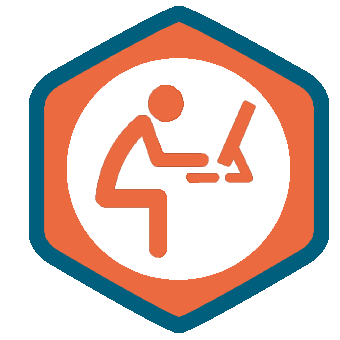
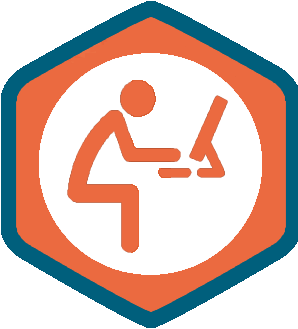
changing images dimensions, adding products pages

diff --git a/site/src/app/components/products/products.component.html b/site/src/app/components/products/products.component.html
@@ -1,0 +1,79 @@
+<app-menu></app-menu>
+<div style="background-color: #d6dae2;padding-top: 1px; height: 100vh; background-repeat: repeat;">
+    <div class="container  col-8"  style="background-color: #d6dae2;">
+        <div class="col-12" style="  height: inherit;">
+            <div class="col-12" style="border-width: 0px;
+            background-color: transparent;">
+                <div class="text-center col-12 py-3 my-3">
+                    <h1> Our Products</h1>
+                </div>
+                <div class="col-12"
+                    style="font-size: initial; font-family: Arial, Helvetica, sans-serif;">
+                    <div class=" row pb-2 mb-2">
+                        <div class="col-lg-6 col-sm-12">
+                            <div class="col-12 row mb-1 pb-1">
+                                <div class="col-4 pr-0 mr-0">
+                                    <img src="assets/img/import_data_icon.png" style="width: 50%;">
+                                </div>
+                                <div class="col-8 pl-0 ml-0" style="margin-top: 6%;">
+                                    Create your Tickdatabase
+                                </div>
+                            </div>
+                            <div class="col-12 text-justify ">
+                                Import your market data by <a href="https://hod.quanthouse.com" target="_blank"> Historical On demand</a>, native FeedOs or by CSV template.<br>
+                                Import you #TimeSeries, all types of data has been supported (Top of the
+                                book, trades, order books, custom, etc ...).
+                            </div>
+                        </div>
+                        <div class="col-lg-6 col-sm-12">
+                            <div class="col-12 row mb-1 pb-1">
+                                <div class="col-4 pr-0 mr-0">
+                                    <img src="assets/img/preparedata_icon.png" style="width: 50%;">
+                                </div>
+                                <div class="col-8 pl-0 ml-0" style="margin-top: 6%;">
+                                    Sanitaze and prepare your data set
+                                </div>
+                            </div>
+                            <div class="col-12 text-justify">
+                                Sanitaze your data are imported, prepare your dataset tick-by-tick, create new time
+                                series, make your minute(s) bars and make your daily (OHLC). The data set in your hands.
+                            </div>
+                        </div>
+                    </div>
+                    <div class="row">
+                        <div class="col-lg-6 col-sm-12">
+                            <div class="col-12 row mb-1 pb-1">
+                                <div class="col-4 pr-0 mr-0">
+                                    <img src="assets/img/designmodels_icone.png" style="width: 50%;">
+                                </div>
+                                <div class="col-8 pl-0 ml-0" style="margin-top: 6%;">
+                                    Design and write your models
+                                </div>
+                            </div>
+                            <div class="col-12 text-justify">
+                                Build your quantitative strategies, create and use your indicators, imagine your quantitative models.<br>
+                                Industrialize your work, create third-party libraries, reuse your codes. Take in your hands the power of visual studio with the fastest coding time to make your models.
+                            </div>
+                        </div>
+                        <div class="col-lg-6 col-sm-12">
+                            <div class="col-12 row mb-1 pb-1">
+                                <div class="col-4 pr-0 mr-0">
+                                    <img src="assets/img/visualizePerf_icon.png" style="width: 50%;">
+                                </div>
+                                <div class="col-8 pl-0 ml-0" style="margin-top: 6%;">
+                                    Visualize and validate your performances
+                                </div>
+                            </div>
+                            <div class="col-12 text-justify">
+                                Launch your backtest in the cloud to improve, compare, validate your quantitative models.<br>
+                                Visualize your performances, P&L, drawdown cach equity and global statistics. Define your objective to find the best range of parameters and optimize the set of parameters.<br>
+                                Browse in depth and compare backtest results by portfolios, transactions, orders, statistics, etc..
+                            </div>
+                        </div>
+                    </div>
+
+                </div>
+            </div>
+        </div>
+    </div>
+</div>

diff --git a/site/src/app/components/our-mission/our-mission.component.html b/site/src/app/components/our-mission/our-mission.component.html
@@ -1,31 +1,57 @@
 <app-menu></app-menu>
-<div class="h-100" style="background-color: #d6dae2">
-    <div class="container h-100 ">
-        <div class="col-12 h-100 my-auto" style="background-color: transparent;">
-            <div class="card card-block  h-100 " style="    border-width: 0px;
+<div  style="background-color: #d6dae2;padding-top: 1px; height: 100vh; background-repeat: repeat;">
+    <div class="container ">
+        <div class="col-12"  style="background-color: transparent; height: inherit;">
+            <div class="col-12" style="border-width: 0px;
             background-color: transparent;">
-                <div class="text-center p-3 m-3">
+                <div class="text-center col-12 p-3 m-3">
                     <h1> Our Mission</h1>
                 </div>
-                <div class="pt-0 mt-5 px-5 mt-5 mx-5" style="font-size: x-large; font-family: Arial, Helvetica, sans-serif;">
-                    <p>
+                <div class="pt-0 px-5 mt-5 mx-5 col-12"
+                    style="font-size: x-large; font-family: Arial, Helvetica, sans-serif;">
+                    <p class="col-12">
                         <b>Cloud Backtesting</b> is the only quantitative trading environment engineered to optimise
                         every
                         stage of strategy research by hosting automated trading development tools in <b>Azure</b>
                     </p>
-                    <p>
+                    <p class="col-12">
                         <b style="color: #ED6540;">Quanthouse </b> unifies the research-development-backtesting cycle
                         into Azure-Cloud infrastructure to provide you with the fastest lead time for new trading models
                         in the market
                     </p>
+
                 </div>
-                <div class="row">
-                    <div class="col-2" style="background-color: black;"></div>
-                    <div class="col-2" style="background-color: blue;"></div>
-                </div>
-                <div class="row">
-                    <div class="col-2" style="background-color: green;"></div>
-                    <div class="col-2" style="background-color: orangered;"></div>
+                <div class="pt-0 px-5 mt-5 mx-5 col-12"
+                    style="font-size: x-large; font-family: Arial, Helvetica, sans-serif;">
+                    <div class=" row col p-0 m-0">
+                        <div class="col-lg-6 col-sm-12 row">
+                            <div class="col-4">
+                                <img src="assets/img/import_data_icon.png" style="width: 100%;">
+                            </div>
+                            <div class="col-8" style="margin-top: 6%;">Create your Tickdatabase</div>
+                        </div>
+                        <div class="col-lg-6 col-sm-12 row">
+                            <div class="col-4">
+                                <img src="assets/img/preparedata_icon.png" style="width: 100%;">
+                            </div>
+                            <div class="col-8" style="margin-top: 6%;">Sanitaze and prepare your data set</div>
+                        </div>
+                    </div>
+                    <div class=" row col p-0 m-0">
+                        <div class="col-lg-6 col-sm-12 row">
+                            <div class="col-4">
+                                <img src="assets/img/designmodels_icone.png" style="width: 100%;">
+                            </div>
+                            <div class="col-8" style="margin-top: 6%;"> Design and write your models</div>
+                        </div>
+                        <div class="col-lg-6 col-sm-12 row">
+                            <div class="col-4">
+                                <img src="assets/img/visualizePerf_icon.png" style="width: 100%;">
+                            </div>
+                            <div class="col-8" style="margin-top: 6%;"> Visualize and validate your performances</div>
+                        </div>
+                    </div>
+
                 </div>
             </div>
         </div>

diff --git a/site/src/app/app.module.ts b/site/src/app/app.module.ts
@@ -64,7 +64,7 @@ import { PdfViewerModule } from 'ng2-pdf-viewer';
 import { CdkTableModule } from '@angular/cdk/table';
 import { TermsOfUseComponent } from './components/terms-of-use/terms-of-use.component';
 import { OurMissionComponent } from './components/our-mission/our-mission.component';
-import { ProductsComponent } from './products/products.component';
+import { ProductsComponent } from './components/products/products.component';
 // import { PdfComponent } from './components/commun/pdf/pdf.component';
 
 @NgModule({
@@ -74,7 +74,7 @@ import { ProductsComponent } from './products/products.component';
     SignUpComponent,
     MenuComponent,
     HomeComponent,
-    // SearchComponent,
+    // SearchComponent
     UsersComponent,
     UserDetailComponent,
     ShowErrorsComponent,

diff --git a/site/src/app/app.routing.ts b/site/src/app/app.routing.ts
@@ -18,7 +18,7 @@ import { HelpPageComponent } from './components/help-page/help-page.component';
 import { LoginComponent } from './components/login/login.component';
 import { SignUpComponent } from './components/signup/signup.component';
 import { OurMissionComponent } from './components/our-mission/our-mission.component';
-import { ProductsComponent } from './products/products.component';
+import { ProductsComponent } from './components/products/products.component';
 
 export const routes: Routes = [
   { path: '', redirectTo: '/home', pathMatch: 'full' },
